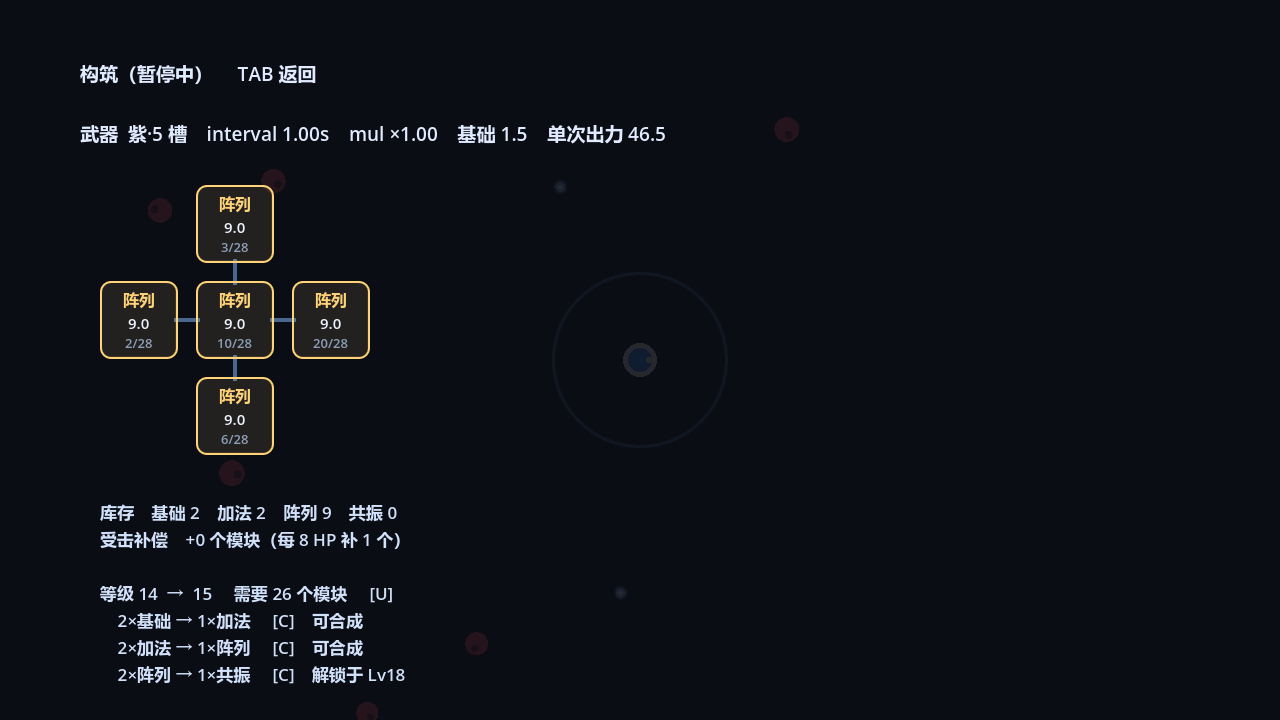
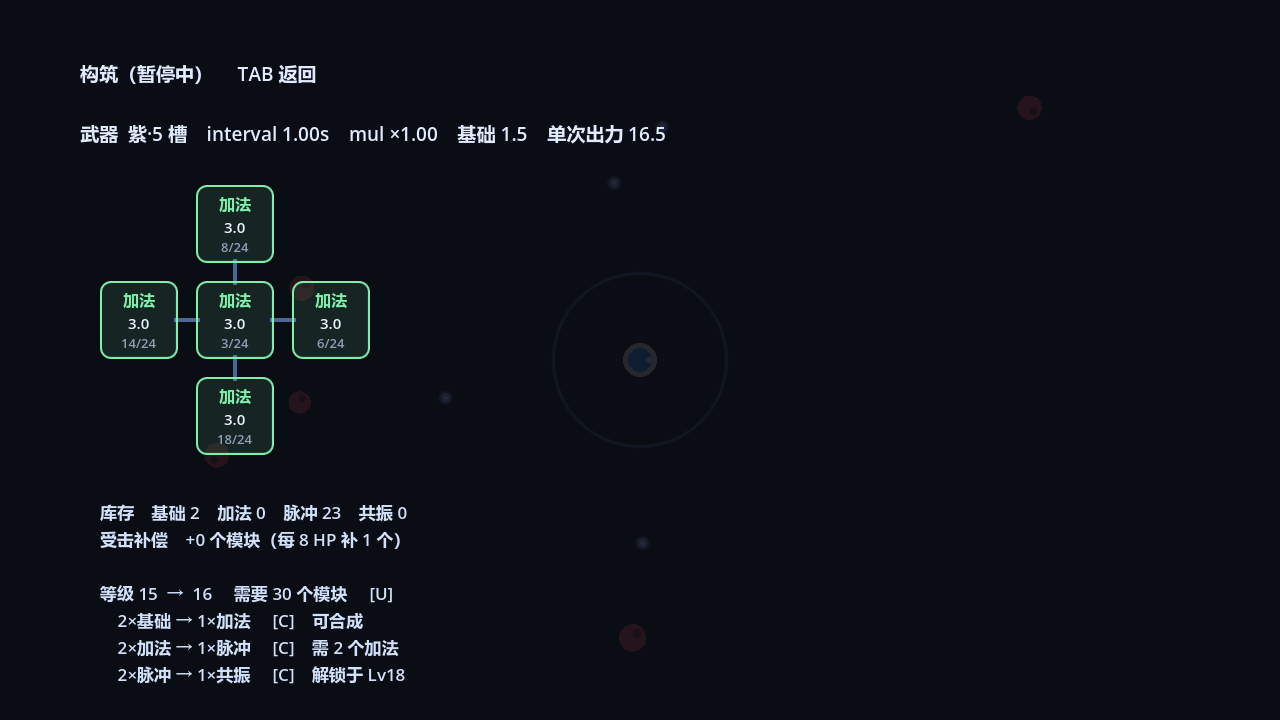
feat: 用脉冲模块替换阵列（自身0出力、每3s给相邻主动模块加基础值）
- 脉冲 T3：0 出力 / 28 次 / 每 3s 给相邻主动模块 +9.0（叠加封顶 9 跳），加成写进对方基础值，可被加法镜像、被共振按 base 计算
- 防呆：脉冲不占空槽、需 >=2 个主动邻居、不换掉输出 >4.0 的主力
- 入槽改为「换上去之后整板出力最高且必须变高」，修掉旧规则把喂加法的 T1 全换掉、最后满板加法互吃不到的问题
- 受击补偿不再发脉冲（自身 0 出力等于发空槽），wave>=24 改为一次补 2 个加法
- 构筑屏：脉冲显示 →9×N，邻居显示 自身+加成 的拆解；构筑/死亡屏不再被红色受击遮罩染红
- 新增 -- boardtest 自检与 -- demoboard 截图板；README/design.md/plan-v2 同步去掉阵列

diff --git a/docs/design.md b/docs/design.md
@@ -111,8 +111,8 @@
 | 波间隔 | 40 s；20 分钟 30 波 |
 | 插槽 | 4（初始）→ 5（wave 12）→ 6（wave 20），来自换更高品质武器 |
 | 基础伤害 | 蓝 1.0 / 紫 1.5 / 金 2.0（不吃模块次数，模块烧光时的底） |
-| 受击补偿 | 每损失 8 HP → 1 个模块（wave≥12 补加法、≥24 补阵列） |
-| 模块 | T1 `1.0 / 20次` · T2 `3.0 / 24次` · T3 `9.0 / 28次` · T4 `27.0 / 34次` |
+| 受击补偿 | 每损失 8 HP → 1 个模块（wave≥12 补加法，≥24 一次补 2 个；不发脉冲，它自身 0 出力） |
+| 模块 | T1 `1.0 / 20次` · T2 `3.0 / 24次` · T3 脉冲 `0 出力 + 每3s 喂 9.0 / 28次` · T4 `27.0 / 34次` |
 | 升级成本 | `3 × 1.18^(level−1)` 个模块 |
 | 配方解锁 | T2 @ Lv4 · T3 @ Lv10 · T4 @ Lv18 |
 
@@ -150,7 +150,8 @@
 2. **空投补给**：每 60 秒地图上刷一个补给箱，按当前构筑给 2–3 个基础模块。
 3. **濒死保护（每个 run 一次）**：弹药库归零时，冻结 3 秒并免费补 3 个基础模块（有冷却）。
    → 新手体验是「惊险」，而不是「莫名其妙就没了」。
-4. **受击补偿（挨打换模块）**：每损失 8 HP 补 1 个模块（wave ≥ 12 补加法、≥ 24 补阵列），
+4. **受击补偿（挨打换模块）**：每损失 8 HP 补 1 个模块（wave ≥ 12 补加法，≥ 24 一次补 2 个；不发脉冲，
+   因为它自身 0 出力，当补偿发等于发了个空槽），
    掉在脚边被吸走。弹药系统让「打不出去」成为结构性劣势，所以掉血必须反哺构筑 ——
    越被压制、回填越快，把死亡螺旋改造成「越危险越肥」的翻盘窗口。
 
@@ -167,15 +168,18 @@
 
 ### 3.2 模块表（v0）
 
+> 状态：本节是 v0 的完整模块设想。**线上已实现的只有 T1 基础 / T2 加法 / T3 脉冲 / T4 共振**（数值见 §2.5 与 README）；
+> 电池、增幅、分流、冷凝仍是待做项（增幅见 `docs/plan-v2.md` §3）。
+
 | Tier | 名称 | rate | uses | storedMax | 效果 | 配方 | 解锁 |
 |---|---|---|---|---|---|---|---|
 | T1 | 基础 | 1.0 | 10 | 5 | 稳定的数值来源 | 掉落 | 初始 |
 | T2 | **加法（镜像）** | 0 | 20 | — | 每个相邻的**更低级**模块，本次抽取**再加一份** | 2 基础 + 5 精华 | 工坊 L2 |
 | T2 | 电池 | 0.5 | 30 | 40 | 超长缓冲，把 `I*` 拉到 80 秒（狙击流） | 3 基础 + 8 精华 | L2 |
 | T2 | 增幅 | 0 | 15 | — | 整个 network 的 `raw ×1.3`（乘算） | 2 基础 + 12 精华 | L3 |
-| T3 | 阵列 | 0 | 25 | — | 每个相邻的**低二阶**模块再加一份，作用半径 2 格 | 2 加法 + 1 电池 + 30 精华 | L4 |
+| T3 | **脉冲** | 0（充能 9.0） | 28 | — | 每 3s 把自身基础值加到**所有相邻的主动模块**上，加成永久留在对方身上（叠 9 跳封顶） | 2 加法 + 30 精华 | L4 |
 | T3 | 分流 | 0 | 30 | — | 把本 network 30% 数值转给另一把武器 | 2 增幅 + 25 精华 | L5 |
-| T4 | 共振 | 0 | 40 | — | 相邻同名模块互相 +50%（可叠 3 层） | 2 阵列 + 60 精华 | L6 |
+| T4 | 共振 | 0 | 40 | — | 相邻同名模块互相 +50%（可叠 3 层） | 2 脉冲 + 60 精华 | L6 |
 | T4 | 冷凝 | 1.5 | 12 | 4 | 极端 `rate`，只适合短间隔武器 | 2 电池 + 50 精华 | L6 |
 
 设计要点：
@@ -227,7 +231,7 @@
 | 绿 | 3 | 折线 | 基础 + 1 加法 |
 | 蓝 | 4 | T 形 | 可做「1 源 2 镜」 |
 | 紫 | 5 | 十字 | 可做「1 源 3 镜 + 电池」 |
-| 金 | 6 | 双十字 | 可上 T3 阵列 |
+| 金 | 6 | 双十字 | 可上 T3 脉冲，摆出「中心喂四周」 |
 
 **核心槽**是唯一输出点：所有数值必须通过连接流到核心槽才会生效。
 所以槽位布局是**电路板**，玩家在玩「走线」。
@@ -343,7 +347,7 @@ weapon-build-survivor/
 | 构建屏吃掉战斗 | 高 | 暂停 + 一键填充；把构建压缩成 20–30 秒的决策 |
 | 弹药螺旋太陡，新手 3 分钟死 | 高 | §2.6 三层保底；M0 模拟先跑曲线 |
 | 数值膨胀导致后期木 | 中 | 分层 HP 曲线 + 护甲/盾兵做「单次伤害上限」约束 |
-| 加法模块语义歧义（3s 累加 vs 镜像） | 中 | 定稿为「镜像复制」，3s 节奏留给 T3 阵列做脉冲 |
+| 加法模块语义歧义（3s 累加 vs 镜像） | 中 | 定稿为「镜像复制」，3s 节奏交给 T3 脉冲（自身 0 出力，只喂邻居） |
 | 拖拽 UI 难做 | 中 | DOM 覆盖层，不做 canvas 内的拖拽 |
 
 ---

diff --git a/docs/plan-v2.md b/docs/plan-v2.md
@@ -1,4 +1,4 @@
-# 可玩性扩展方案 v2
+# 可玩性扩展方案 v2
 
 > 状态：**待评审，未动代码**。对应需求：m00684 的四条（武器分化 / 增幅模块 / 自动化合成装置 / 搜寻目标开火）。
 > 现有实现基线：commit `d1fce55`，`scripts/game.gd` 841 行，单武器 + 脉冲开火（射程内全体结算）。
@@ -10,7 +10,7 @@
 | # | 需求 | 落地形态 | 主要改动的系统 | 风险 |
 |---|---|---|---|---|
 | 1 | 武器分化 | 4 把武器，各自的射程 / 间隔 / 目标数 / 单发系数 / 次数倍率 | `_fire()`、`_draw()`、构筑屏、武器字典 | 多目标伤害分摊公式决定平衡，做错会直接超模 |
-| 2 | 增幅模块 | 新 T2.5 模块：每 3s 随机使相邻 2 个模块读数 ×2 | `_slot_out()` 的 eff 阶段 | 与加法/阵列镜像叠加后可能指数放大 |
+| 2 | 增幅模块 | 新 T2.5 模块：每 3s 随机使相邻 2 个模块读数 ×2 | `_slot_out()` 的 eff 阶段 | 与加法镜像叠加后可能指数放大 |
 | 3 | 自动化合成 | 合成装置（独立工坊槽）+ 队列 + 合成时间 + 自动补料 | `try_craft()` 重写、构筑屏新增装置面板 | 构筑屏是暂停的，装置计时必须与暂停解耦 |
 | 4 | 搜寻目标开火 | 每次开火选最近 N 个目标，瞬发弹道拖尾 + 命中特效 | `_fire()`、`_draw()`、新增 tracer 池 | 无，纯收益；但会显著削弱现有 DPS，必须同步补偿 |
 
@@ -170,22 +170,22 @@ const WEAPON_DEFS := {
 
 ### 3.2 结算顺序（关键）
 
-`_slot_out()` 现有阶段是「base → 共振 → 加法/阵列镜像」。增幅必须插在**共振之后、镜像之前**：
+`_slot_out()` 现有阶段是「base → 共振 → 加法镜像」。增幅必须插在**共振之后、镜像之前**：
 
 ```
 base(tier rate)
   → 共振（相邻同阶 +50%）
   → 增幅（被选中的槽位 eff *= 2）
-  → 加法/阵列（镜像相邻/半径2内的低阶 eff）
+  → 加法（镜像相邻低阶 eff）
 ```
 
-这样做的收益是：**增幅的 ×2 会被加法/阵列复制一份**，5 槽布局里「增幅 + 加法 + 基础」能形成一次小爆发，构筑有回报。代价是可能一次爆出很高数字，用 §3.3 的上限压住。
+这样做的收益是：**增幅的 ×2 会被加法复制一份**，5 槽布局里「增幅 + 加法 + 基础」能形成一次小爆发，构筑有回报。代价是可能一次爆出很高数字，用 §3.3 的上限压住。
 
 ### 3.3 上限（防指数）
 
 - 单次开火中，增幅带来的额外输出上限 = `网络原始总输出 × 1.5`。超出部分截断。
 - 实现：算完 eff 后，`boost = sum(eff_after) - sum(eff_before)`，若 `boost > raw * 1.5` 则按比例缩回。
-- 理由：没有这层 clamp，「4 个增幅 + 加法 + 阵列」在 6 槽金武器上能做出 10 倍爆发，直接把 HP 曲线打穿。
+- 理由：没有这层 clamp，「4 个增幅 + 加法 + 共振」在 6 槽金武器上能做出 10 倍爆发，直接把 HP 曲线打穿。
 
 ### 3.4 获取
 
@@ -330,10 +330,11 @@ base(tier rate)
 | # | 问题 | 我的推荐 | 备选 |
 |---|---|---|---|
 | 1 | 多目标伤害分摊用哪个公式 | **C 折扣分摊**（`per = dmg × (1+0.1×(hits-1)) / hits`） | A 均分（多目标完全无收益）/ B 满打（超模） |
-| 2 | 增幅的 ×2 能不能被加法/阵列复制 | **能**（这是构筑深度所在，配 clamp 控制上限） | 不能（更安全，但增幅只是个小加成） |
+| 2 | 增幅的 ×2 能不能被加法复制 | **能**（这是构筑深度所在，配 clamp 控制上限） | 不能（更安全，但增幅只是个小加成） |
 | 3 | 增幅模块是否消耗次数 | **不消耗**（纯被动，占槽位就是成本） | 消耗（会让它比别的模块先死） |
 | 4 | 合成装置占武器槽还是独立工坊槽 | **独立工坊槽**（占武器槽 = 硬砍 20% 输出） | 占武器槽（更硬核，取舍更痛） |
 | 5 | 本轮是否做精英怪掉落武器 | **做**（否则多武器没有获取渠道，等于白做） | 只做「开局随机 + 构筑屏切换」，精英留到下一轮 |
 | 6 | 是否保留脉冲作为某把武器的特色 | **不保留**（两套结算逻辑并存会让平衡无法推理） | 保留给「激光环」类武器 |
 
 拍板后我按 P1 → P4 顺序做，每个阶段给你截图 + bot 数据。
+
